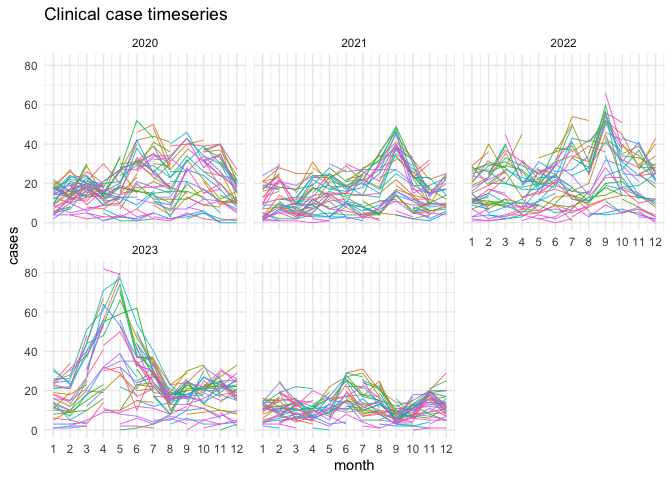
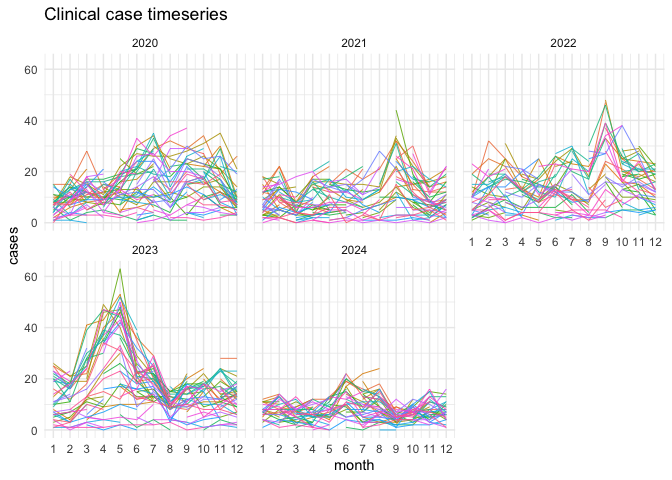
include prev-inc relationship in simulation and plotting

diff --git a/README.md b/README.md
@@ -625,7 +625,7 @@ ggplot(
   ) +
   scale_x_continuous(breaks = 1:12) +
   ggtitle("Clinical case timeseries")
-#> Warning: Removed 43 rows containing missing values or values outside the scale range
+#> Warning: Removed 39 rows containing missing values or values outside the scale range
 #> (`geom_line()`).
 ```
 
@@ -711,3 +711,26 @@ ggplot(
 ```
 
 ![](README_files/figure-gfm/vis_data_5-1.png)<!-- -->
+
+Plot the assumed infection prevalence - clinical case incidence
+relationship:
+
+``` r
+prev_inc_plot <- tibble(prevalence = seq(0, 0.5, length.out = 100)) %>%
+  mutate(
+    clinical_incidence = data$surveillance_information$prev_inc_function
+(prevalence)
+  )
+
+ggplot(
+  aes(x = prevalence,
+      y = 365 * clinical_incidence),
+  data = prev_inc_plot) +
+  geom_line() +
+  theme_minimal() +
+  xlab("Prevalence") +
+  ylab("Clinical incidence (annual)") +
+  ggtitle("Prevalence - clinical incidence function")
+```
+
+![](README_files/figure-gfm/vis_data_6-1.png)<!-- -->
